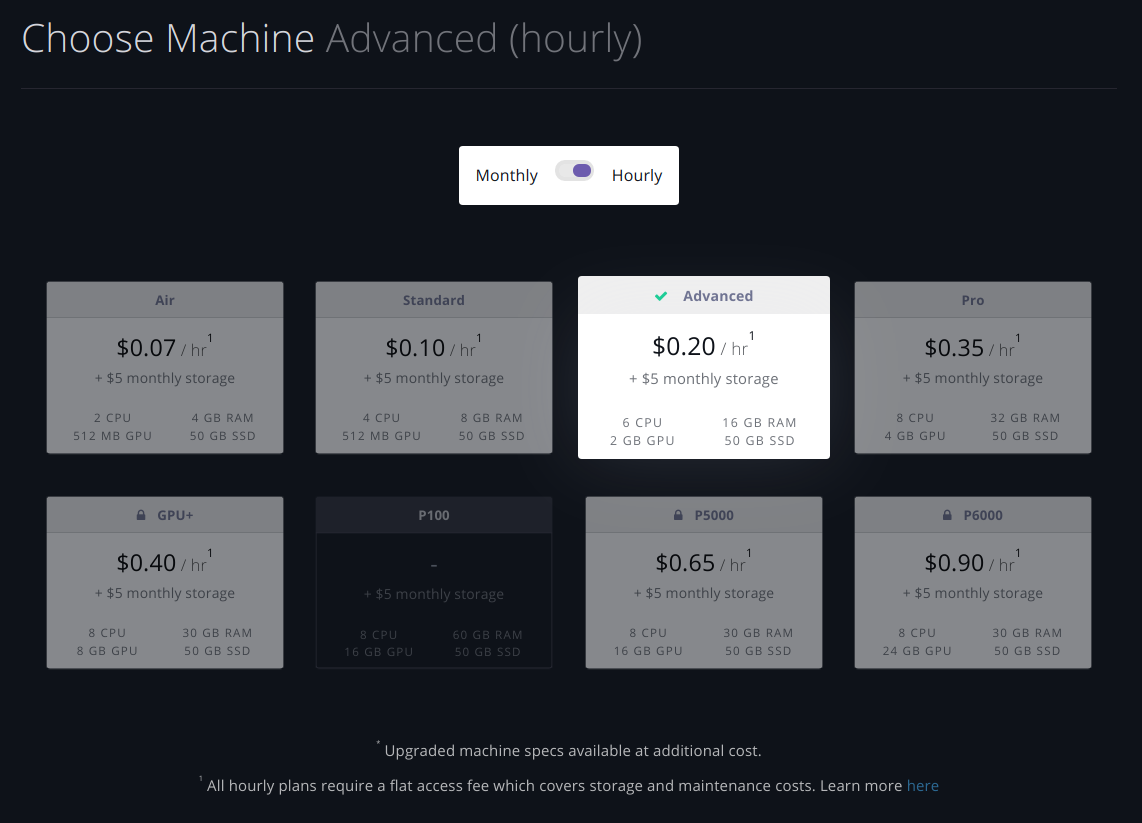
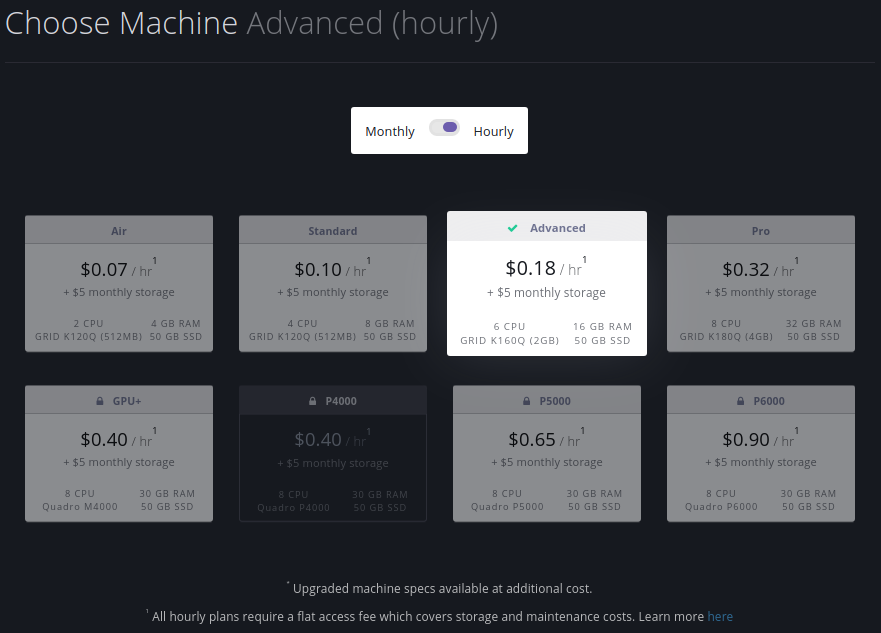
Update fusion 360 in ubuntu post, including updated images

diff --git a/_posts/2017-08-09-Run-Fusion-360-in-Ubuntu.html b/_posts/2017-08-09-Run-Fusion-360-in-Ubuntu.html
@@ -7,11 +7,15 @@ tags: ["design", "virtualization"]
 
 <img src="{{ site.baseurl }}/assets/img/paperspace/paperspace-fusion-360-in-ubuntu.png" alt="Running Fusion 360 in Ubuntu with Paperspace">
 
-<p>In order to build truly innovative products, you need to design and plan them within a 3D environment, such as a CAD based system. <a href="https://www.autodesk.com/products/fusion-360/overview" target="_blank">Autodesk's Fusion 360</a> is one such system, which is a cloud based 3D CAD, CAM, and CAE tool. Fusion 360 is great because you can design, test and fabricate a component within it, while syncing your progress on the cloud, allowing you to work anywhere and collaborate with others. Autodesk even offers a free license to students, startups and enthusiasts.</p>
+<p>Updated: Nov 6, 2017</p>
 
-<p>However, Fusion 360 only works on Windows and Mac, meaning that my Ubuntu based laptop won't work. A simple solution for me is to rent a virtual Windows desktop. Not only is this solution immediate, but I only have to pay for the time I use the system.</p>
+<p><i>tldr: Autodesk doesn't make a Linux version of their Fusion 360 software, but you can run it within a Windows based VM (like Paperspace) or in the browser. Currently, the browser based Fusion only offers limited functionality, thus I use (and recommend) a Windows based VM, with Paperspace offering an easy and affordable remote VM.</i></p>
 
-<p>There are multiple vendors offering virtual Windows desktops, however, few offer a system backed by dedicated GPUs. Dedicated GPUs give a system much more power for designing and processing sophisticated models and simulations, along with speeding up the training of machine learning models. <a href="https://www.paperspace.com" target="_blank">Paperspace</a> is a front runner for providing cost effective GPU backed virtual desktops.</p>
+<p>3D CAD systems can help you visualize and build any component or system. <a href="https://www.autodesk.com/products/fusion-360/overview" target="_blank">Autodesk's Fusion 360</a> is one of the most popular CAD systems. In total, it's a cloud based 3D CAD, CAM, and CAE tool. Fusion 360 is great because you can design, test and fabricate a component within it, while syncing your progress on the cloud, allowing you to work anywhere and collaborate with others. Autodesk even offers a free license to students, startups and enthusiasts.</p>
+
+<p>However, Fusion 360 only works on Windows and Mac, meaning any Linux user is left high and dry. The two solutions include using Fusion 360 within the browser, or using a virtual Windows desktop. The browser option would be perfect, but it has limited functionality (and assumes the computer is powerful enough to run it). My preferred solution is to rent a virtual Windows desktop. In addition to getting access to very powerful hardware, you only pay for the time that you use the system for.</p>
+
+<p>There are multiple vendors offering virtual Windows desktops, however, few offer a system backed by dedicated GPUs. Dedicated GPUs give the system much more power for designing and processing sophisticated models and simulations, along with speeding up the training of machine learning models. <a href="https://www.paperspace.com" target="_blank">Paperspace</a> is a front runner for providing cost effective GPU backed virtual desktops.</p>
 
 <p>In this post I will outline the benefits of using Paperspace, along with the steps required to get Fusion 360 working in a virtualized GPU desktop.</p>
 
@@ -33,7 +37,7 @@ tags: ["design", "virtualization"]
 
 <img src="{{ site.baseurl }}/assets/img/paperspace/paperspace-console.png" alt="Paperspace console">
 
-<p>When creating a new machine, the first option is to specify the region where the machine should be located. Since I am near New York right now, I am selected the <b>East Coast</b> location.</b>
+<p>When creating a new machine, the first option is to specify the region where the machine should be located. Paperspace now offers 3 locations, with one on each US coast, and their recently opened Amsterdam location. Since I am near New York right now, I am selected the <b>East Coast</b> location. </b>
 
 <img src="{{ site.baseurl }}/assets/img/paperspace/paperspace-creation-1-region.png" alt="Paperspace Windows machine creation">
 
@@ -41,9 +45,11 @@ tags: ["design", "virtualization"]
 
 <img src="{{ site.baseurl }}/assets/img/paperspace/paperspace-creation-2-os.png" alt="Paperspace Windows 10 template">
 
-<p>Now the fun part of selecting which machine we want to run. We have multiple options, including systems with a shared GPU and systems with dedicated GPUs. For most CAD work, a system with a shared GPU will be sufficient. I am using the <b>Advanced</b> system that includes 6 CPU cores, 16GB of RAM, and 2 GB in the GPU, for $0.20 per hour. If you realize your system isn't powerful enough, Paperspace allows you to upgrade your system to a more powerful system at a later date.</p>
+<p>Now the fun part of selecting which machine we want to run. We have multiple options, including systems with a shared GPU and systems with dedicated GPUs. For most CAD work, a system with a shared GPU will be sufficient. I am using the <b>Advanced</b> system that includes 6 CPU cores, 16GB of RAM, and a K160Q Nvidia GPU (2GB VRAM), for $0.18 per hour. If you realize your system isn't powerful enough, you can upgrade the system at a later date.</p>
 
 <p>Also select how you want the machine to be billed. The two options are billed hourly or monthly. You can save almost 50% by selecting monthly, however, for our use case right now, I think it makes better financial sense to select <b>hourly</b> and just shutdown the machine when you are not using it. If you know you are going to be running long simulations or ML training sessions on the machine, then maybe selecting monthly would be better.</p>
+
+<p>NOTE: When you shutdown the machine, all of your settings and files are saved in an attached storage node. Thus you don't have to worry about losing files when you shut down the machine. The storage node can be deleted when you terminate the machine.</p>
 
 <img src="{{ site.baseurl }}/assets/img/paperspace/paperspace-creation-3-machine.png" alt="Paperspace Windows machine creation">
 
@@ -59,7 +65,7 @@ tags: ["design", "virtualization"]
 
 <img src="{{ site.baseurl }}/assets/img/paperspace/paperspace-creation-6-options.png" alt="Paperspace Windows machine creation">
 
-<p>Review the machine options you selected one final time and enter payment details (if you haven't already). You should see the $10 credit you received in the payment list on the right. Once you've verified everything, click <b>Create Your Paperspace</b>. The machine will be provisioned over the next few minutes.</p>
+<p>Review the machine options you selected one final time and enter payment details (if you haven't already). If you clicked on my referral link above, you should see the $10 credit you received in the payment list on the right. Once you've verified everything, click <b>Create Your Paperspace</b>. The machine will be provisioned over the next few minutes.</p>
 
 <h3>Machine Settings</h3>
 
@@ -75,8 +81,10 @@ tags: ["design", "virtualization"]
 
 <img src="{{ site.baseurl }}/assets/img/paperspace/paperspace-windows-in-ubuntu.png" alt="Running Windows 10 in Ubuntu with Paperspace">
 
-<p>Once the desktop loads within your browser, you are ready to download Fusion 360 from Autodesk's website. When you log in, you will see any prior projects you worked on sync. If you are an enthusiast, startup or student, don't forget to claim your free 1 year license (you'll have to re-claim the license yearly).</p>
+<p>Once the desktop loads within your browser, you are ready to download Fusion 360 from Autodesk's website. When you log in, Fusion will sync all of the prior projects you've worked on. If you are an enthusiast, startup or student, don't forget to claim your free 1 year license (you'll have to re-claim the license yearly).</p>
 
 <p>If you are new to Fusion 360, <a href="https://www.youtube.com/user/cadcamstuff/videos" target="_blank">Lars Christensen</a> makes some great tutorials on YouTube that you can watch. For a bit of fun, here are some tutorials for designing an <a href="https://youtu.be/E0bhdr84FNU" target="_blank">Arduino Uno enclosure</a> and a <a href="https://youtu.be/3PnKBSOulwo" target="_blank">3D printed lampshade</a>.</p>
+
+<p>Here is the model of a <a href="{{ site.baseurl }}{% post_url 2017-08-29-Robot-Arm-CAD-Model %}">robot arm</a> I created while running Fusion 360 in a Paperspace machine.</p>
 
 <p>Now go design some amazing models!</p>
